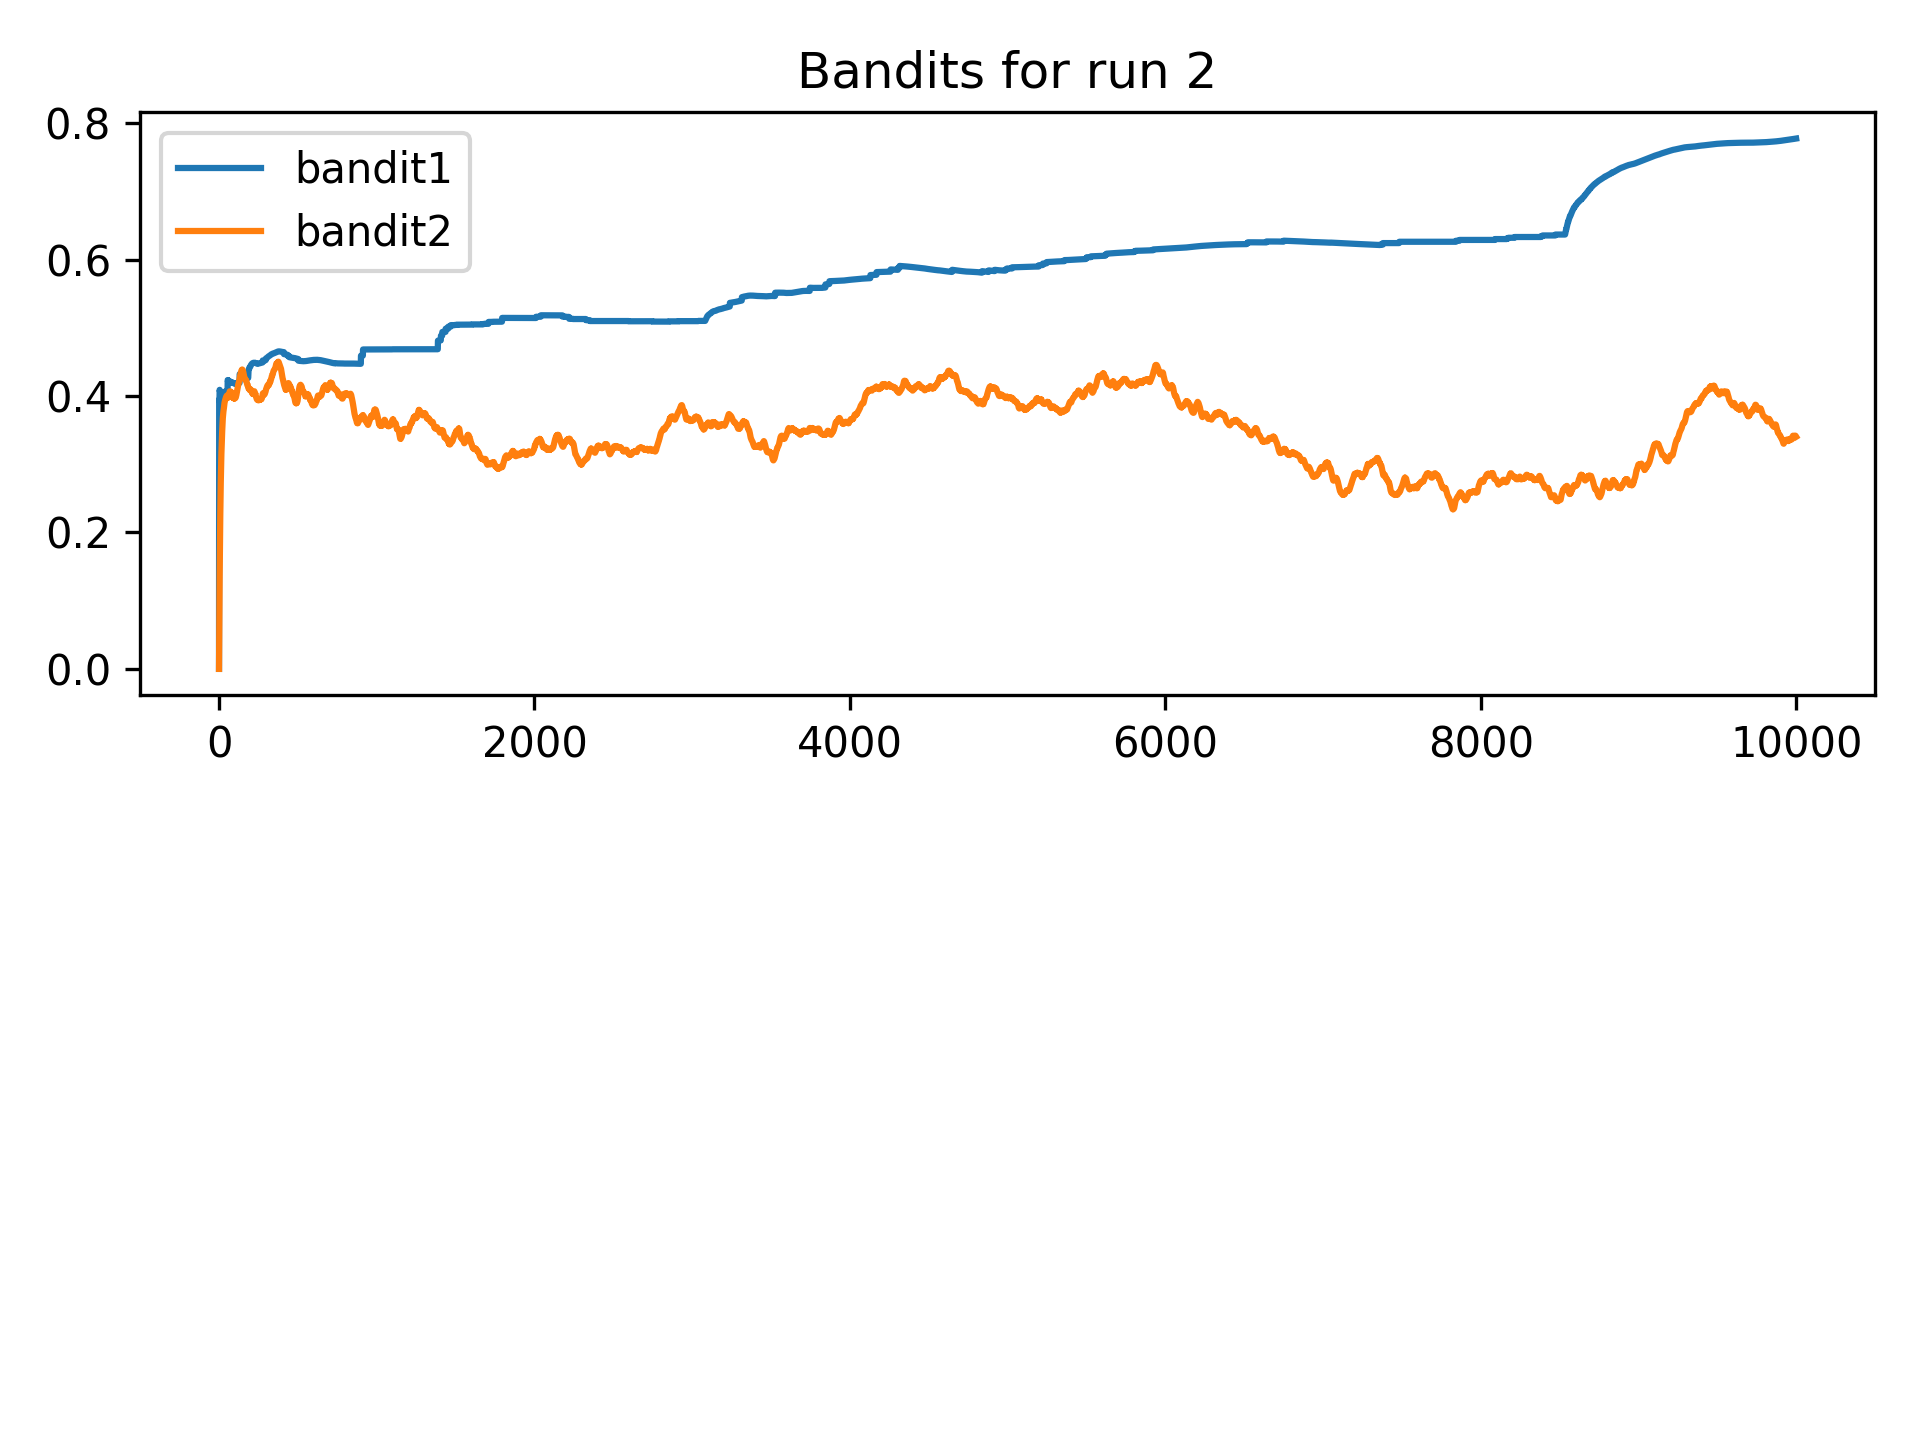
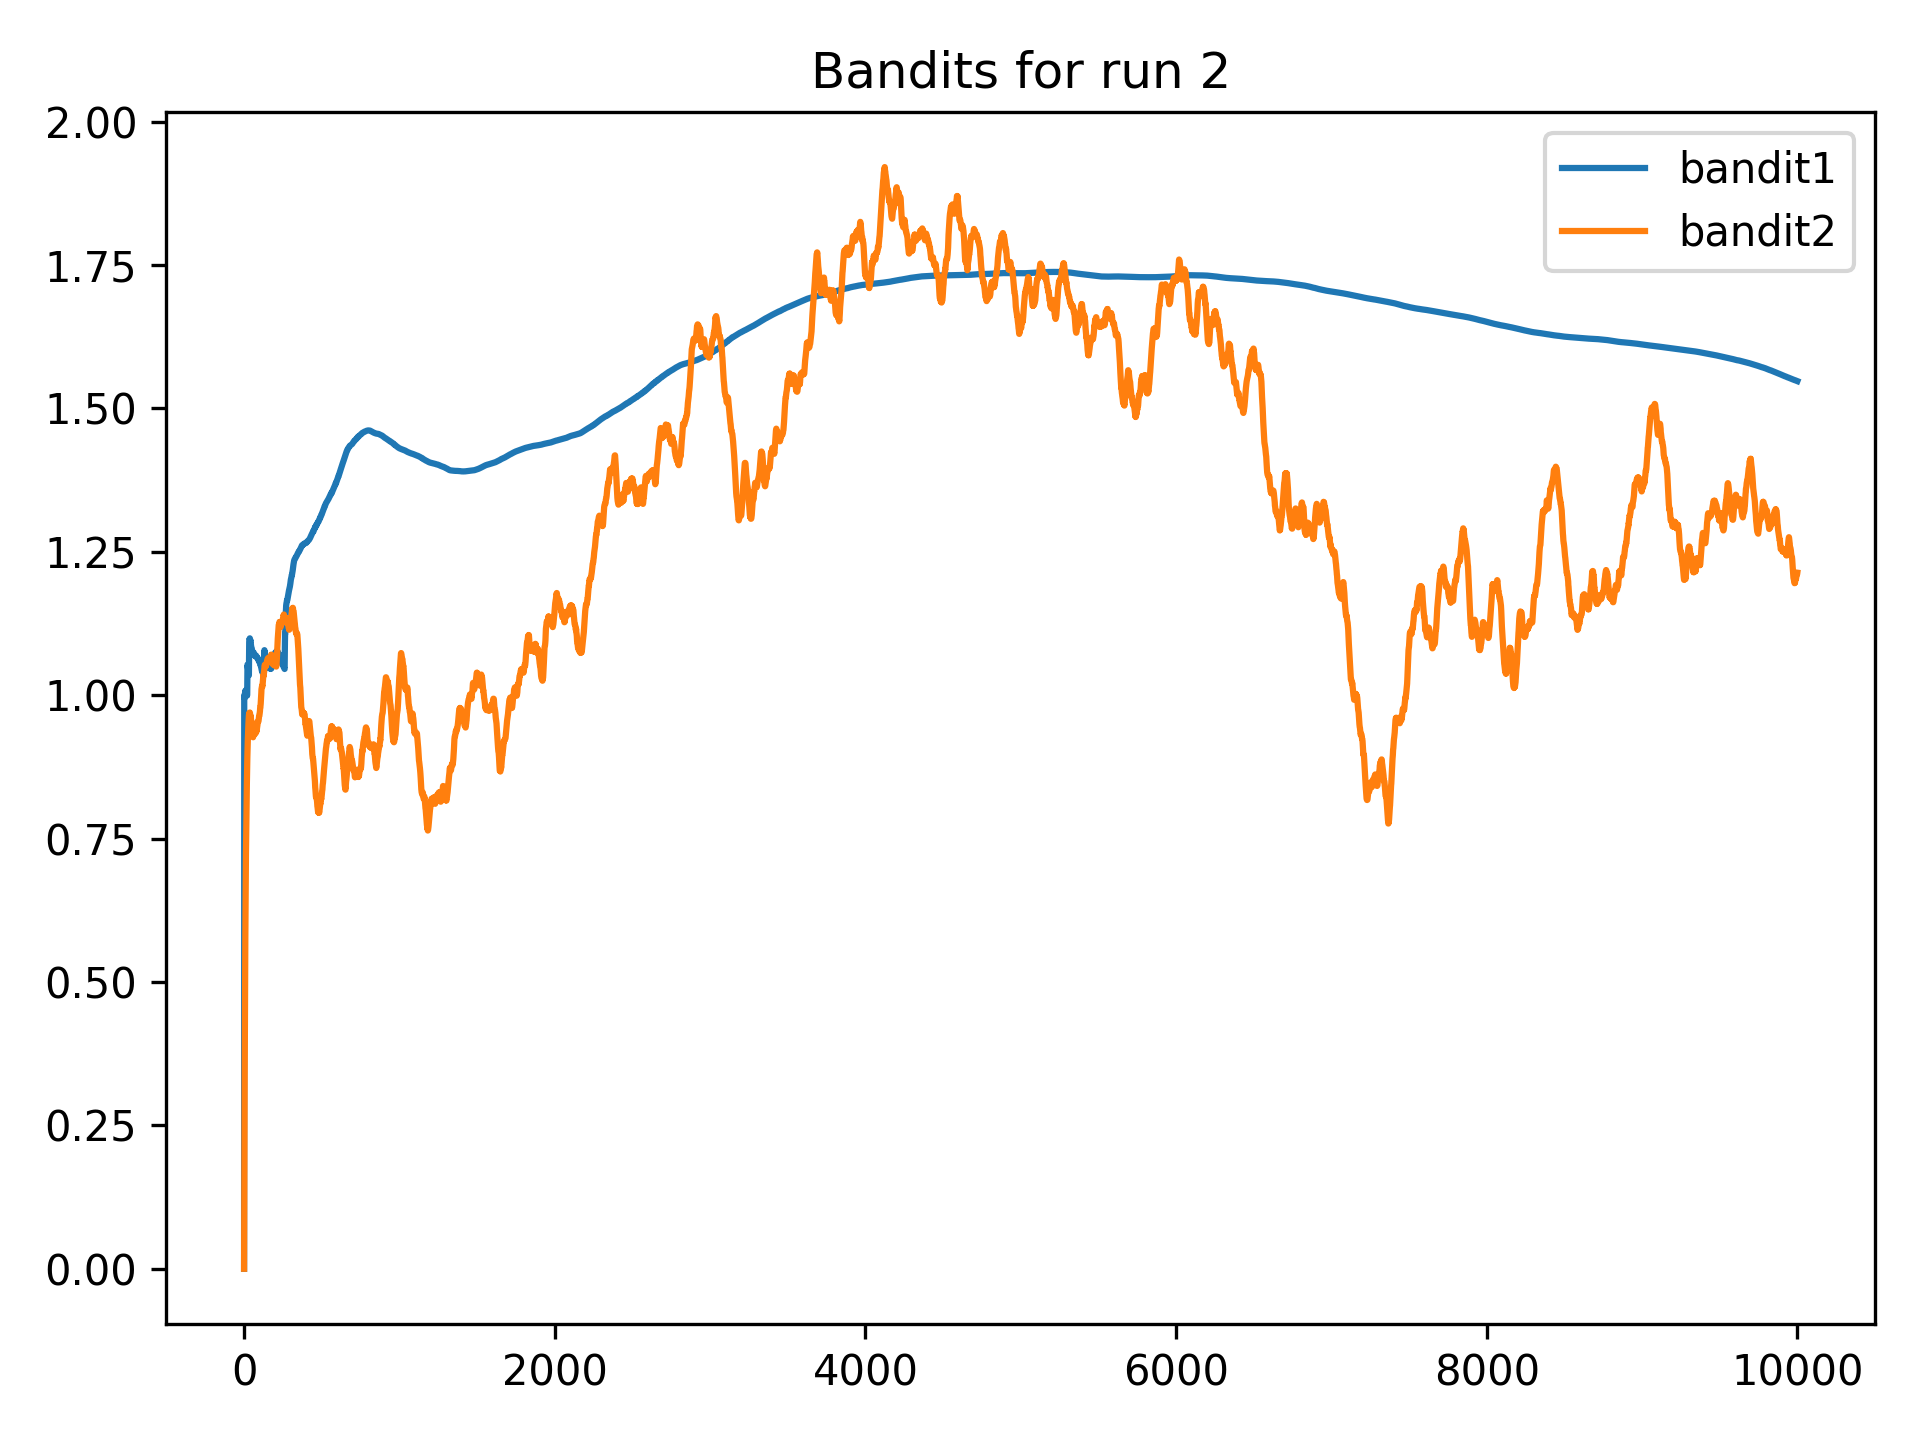
add alpha calc and ditch unneeded

diff --git a/src/CS6900/exercise_2_5_try2.py b/src/CS6900/exercise_2_5_try2.py
@@ -47,35 +47,6 @@ class Bandits:
             action = np.random.randint(0, n_arms)
         return action
 
-    def plot_reward(self):
-        plt.figure()
-        plt.plot(self.rewards_received)
-        plt.title(self.name + "_reward")
-        modules.easy_plots.save_fig(self.name + "_reward")
-
-    def get_avg_reward(self):
-        window = 1000
-        avg_reward = []
-        for i in range(len(self.rewards_received-window+1)):
-            avg_reward.append(np.mean(self.rewards_received[i:i+window]))
-        return avg_reward
-    
-    def plot_avg_reward(self):
-        avg_reward = self.get_avg_reward()
-        plt.figure()
-        plt.plot(avg_reward)
-        plt.title(self.name + "_average_reward")
-        modules.easy_plots.save_fig(self.name + "_average_reward")
-    
-    def plot_Q_max(self):
-        Q_max_arr = np.zeros(n_steps)
-        for i in range(self.n_steps):
-            Q_max_arr[i] = np.max(self.Q[:, i])
-        plt.figure()
-        plt.plot(Q_max_arr)
-        plt.title(self.name + "_Q_max")
-        modules.easy_plots.save_fig(self.name + "_Q_max")
-
     def get_Q_max(self):
         Q_max_arr = np.zeros(n_steps)
         for i in range(self.n_steps):
@@ -90,13 +61,7 @@ class Bandits:
             Q_global_max[i] = np.max(Q_global_mean[:, i])
         return Q_global_max
 
-
-# Unused for now
-class Levers():
-    def __init__(self, mu, sigma):
-        self.mu = mu # Mean
-        self.sigma = sigma # Std. Dev.
-
+#-----------------------------------------------------------------------------
 
 def plot_levers(mu_list, sigma_list, run_num = 0):
     num_samps = 100
@@ -125,18 +90,18 @@ def plot_globals_bandits(list_of_bandits):
 
     plt.figure()
     for i in list_of_bandits:
-        i.plot_global_Q_max(plt.gcf().number)
+        q_max = i.get_global_Q_max()
+        plt.plot(q_max)
     plt.legend()
     plt.title("Bandits global Q max")
     modules.easy_plots.save_fig("Q_global_max")
 
-def plot_bandits_and_levers(list_of_bandits, lever_mu, lever_sigma):
+def plot_bandits(list_of_bandits, lever_mu, lever_sigma):
+    
     plt.figure()
-    ax1 = plt.subplot(211)
     for i in list_of_bandits:
-        this_qmax = i.get_global_Q_max()
-        ax1.plt()
-
+        this_qmax = i.get_Q_max()
+        plt.plot(this_qmax, label=i.name)
 
     plt.legend()
     plt.title("Bandits for run " + str(Bandits.run))
@@ -171,10 +136,6 @@ lower_mu, upper_mu = -1, 10
 lower_sigma, upper_sigma = 1, 1
 random_mu, random_sigma = 0, .01 # Random walks the lever takes each step
 
-# This was for random value & random distribution levers. We want equal levers at the beginnning
-# lever_mu = np.zeros(n_arms) + (np.random.random(n_arms)*(upper_mu-lower_mu)+lower_mu)
-# lever_sigma = np.zeros(n_arms) + (np.random.random(n_arms)*(upper_sigma-lower_sigma)+lower_sigma)
-
 lever_mu = np.zeros(n_arms) + 1
 lever_sigma = np.zeros(n_arms) + .01
 
@@ -203,28 +164,10 @@ for j in range(n_runs):
         bandit2.N[:, i] = bandit2.N[:, i-1]
         bandit2.Q[:, i] = bandit2.Q[:, i-1]
         bandit2.N[B2_A][i] = bandit2.N[B2_A][i] + 1
-
         # Calculate the new expected reward for bandit 2, constant step-size parameter method.
         # The n in eq (2.6) in Sutton is the number of times this action has been chosen. So you
         # are summing over # of pulls, not what step you are on.
-
-        # This array is what we will sum up.
-        to_sum = np.zeros(bandit2.N[B2_A, i]) # Terms to sum up == # of times we pulled this lever
-        to_sum[0] = (1-bandit2.alpha)**(bandit2.N[B2_A, i])*bandit2.Q[B2_A][0] # First term always the same
-
-        # Need to keep building to_sum
-
-
-
-
-        # There should be alpha here soon
-        bandit2.Q[B2_A][i] = 1
-
-
-
-
-        bandit1.Q[B2_A][i] = bandit1.Q[B2_A][i]+1/bandit2.N[B2_A][i]*(bandit2.rewards_received[i]-bandit2.Q[B2_A][i])
-        # Colton W
+        bandit2.Q[B2_A, i] = bandit2.Q[B2_A, i] + bandit2.alpha*(bandit2.rewards_received[i]-bandit2.Q[B2_A, i])
 
         Bandits.step = Bandits.step + 1
         lever_mu = lever_mu + np.random.normal(random_mu, random_sigma, n_arms) # Walk levers
@@ -235,7 +178,7 @@ for j in range(n_runs):
     Bandits.run = Bandits.run + 1
     bandit1.Q_global[:,:,j] = bandit1.Q[:,:] # Save that run
     bandit2.Q_global[:,:,j] = bandit2.Q[:,:]
-    plot_bandits_and_levers([bandit1, bandit2], lever_mu, lever_sigma) # Visualize levers at end of each run
+    plot_bandits([bandit1, bandit2], lever_mu, lever_sigma) # Visualize levers at end of each run
     # Reset steps
     Bandits.step = 0
     # Reset the levers for the next run...
